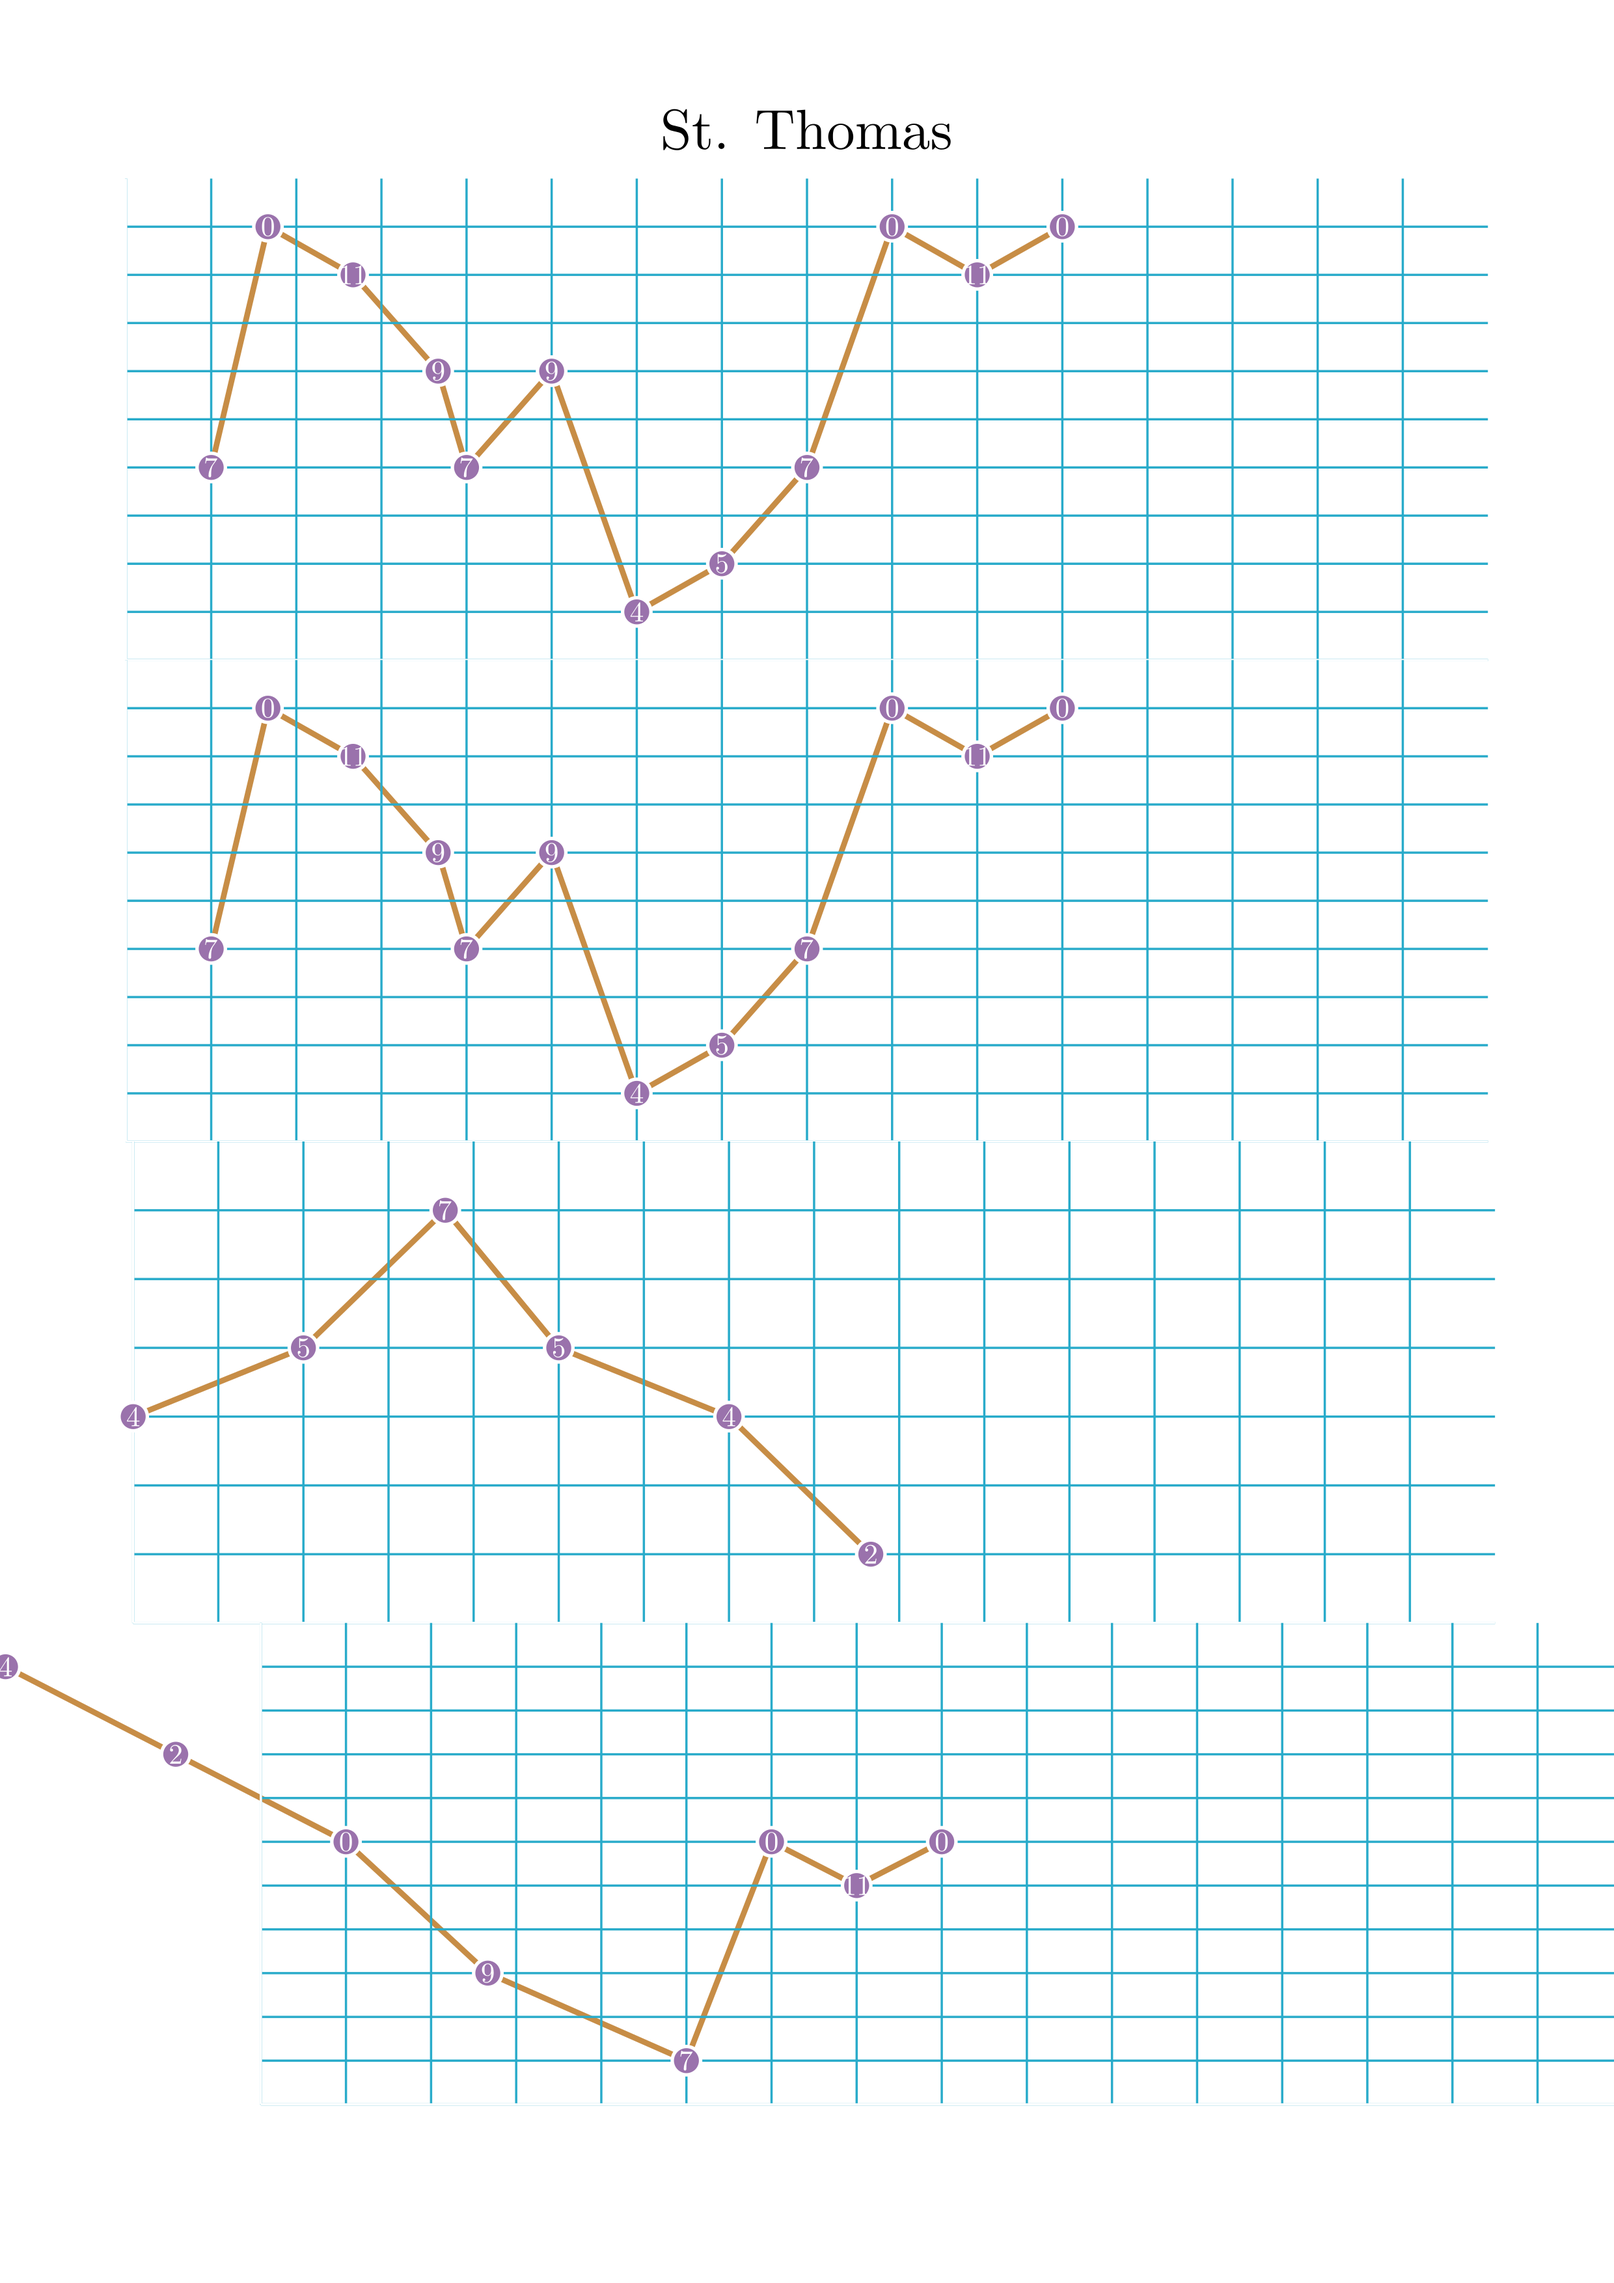
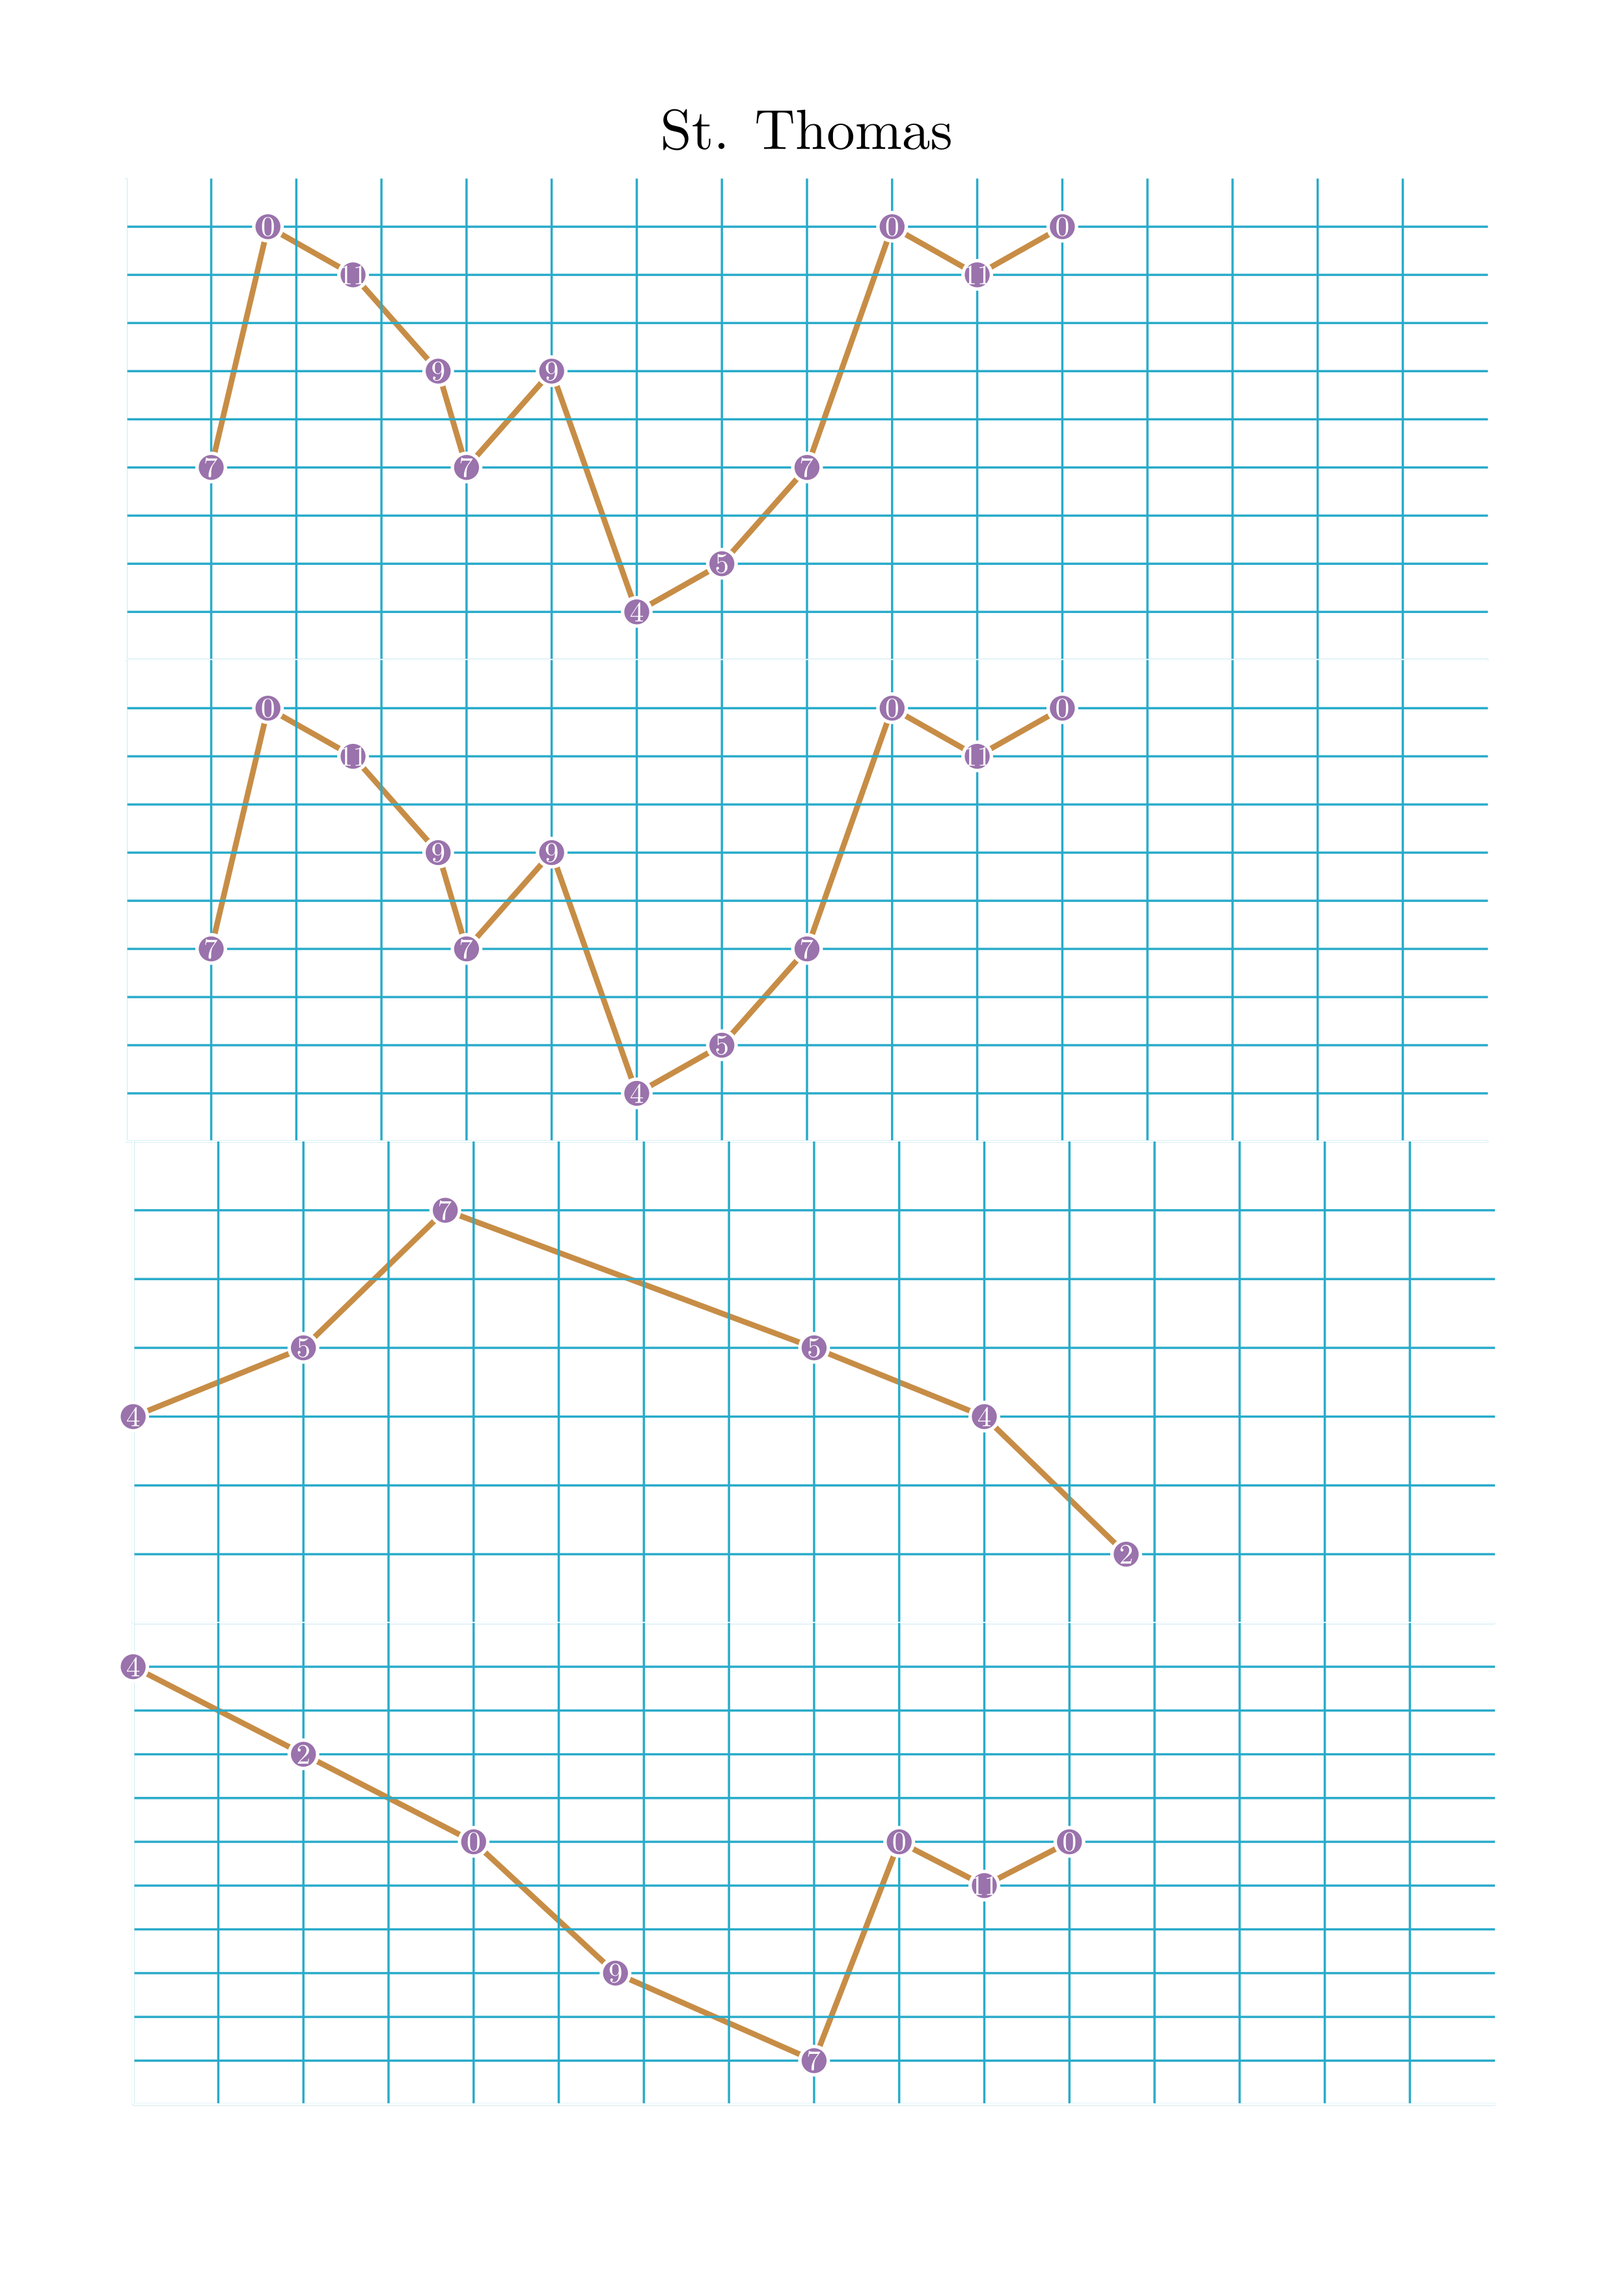
create melody sheet

diff --git a/graph_music_data.py b/graph_music_data.py
@@ -83,7 +83,7 @@ A = [
 
 B = [
     [("4' 5' 7'", [2*b, b + tt, t])],
-    [("R", [b, b, b, b])],
+    [("R", [4 * b])],
     [("5' 4' 2'", [2*b, b + tt, t])],
     [("R", [4*b])],
 ]
